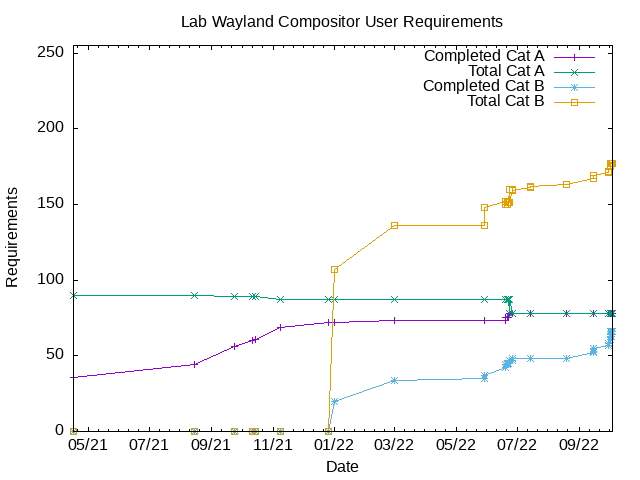
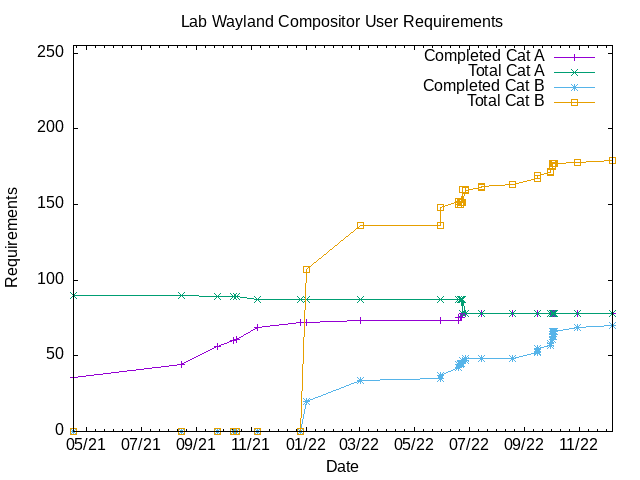
Add menu.width.{max,min} and menu.items/padding.{x,y}

diff --git a/all-cat-A-and-B-items.md b/all-cat-A-and-B-items.md
@@ -200,6 +200,10 @@ This file has been auto-generated based on README.md. Do not edit it manually
 |  B  | complete | 6.1.12    | geometry                        | `menu.overlap.x`                                        |
 |  B  | complete | 6.1.13    | geometry                        | `menu.overlap.y`                                        |
 |  B  |          | 6.1.14    | geometry                        | `menu.overlap`                                          |
+|  B  | complete | 6.1.15    | geometry                        | `menu.width.min`                                        | EXTRA
+|  B  | complete | 6.1.16    | geometry                        | `menu.width.max`                                        | EXTRA
+|  B  | complete | 6.1.17    | geometry                        | `menu.items.padding.x`                                  | EXTRA
+|  B  | complete | 6.1.18    | geometry                        | `menu.items.padding.y`                                  | EXTRA
 |  B  |          | 6.2.2     | border colors                   | `window.active.title.separator.color`                   |
 |  B  |          | 6.2.4     | border colors                   | `window.inactive.title.separator.color`                 |
 |  B  |          | 6.2.6     | border colors                   | `window.active.client.color`                            |

diff --git a/README.md b/README.md
@@ -480,6 +480,10 @@ It depends on what happens with:
 |  B  | complete | 6.1.12    | geometry                        | `menu.overlap.x`                                        |
 |  B  | complete | 6.1.13    | geometry                        | `menu.overlap.y`                                        |
 |  B  |          | 6.1.14    | geometry                        | `menu.overlap`                                          |
+|  B  | complete | 6.1.15    | geometry                        | `menu.width.min`                                        | EXTRA
+|  B  | complete | 6.1.16    | geometry                        | `menu.width.max`                                        | EXTRA
+|  B  | complete | 6.1.17    | geometry                        | `menu.items.padding.x`                                  | EXTRA
+|  B  | complete | 6.1.18    | geometry                        | `menu.items.padding.y`                                  | EXTRA
 
 ## 6.2 Theme - Border Colors
 

diff --git a/stats.md b/stats.md
@@ -3,6 +3,6 @@ This file has been auto-generated based on README.md. Do not edit it manually
 # Requirements Breakdown
 
 - Cat A:  78 / 78 complete
-- Cat B:  70 / 179 complete
+- Cat B:  74 / 183 complete
 - Cat C:  0 / 59 complete
-- TOTAL:  148 / 316 complete
+- TOTAL:  152 / 320 complete
